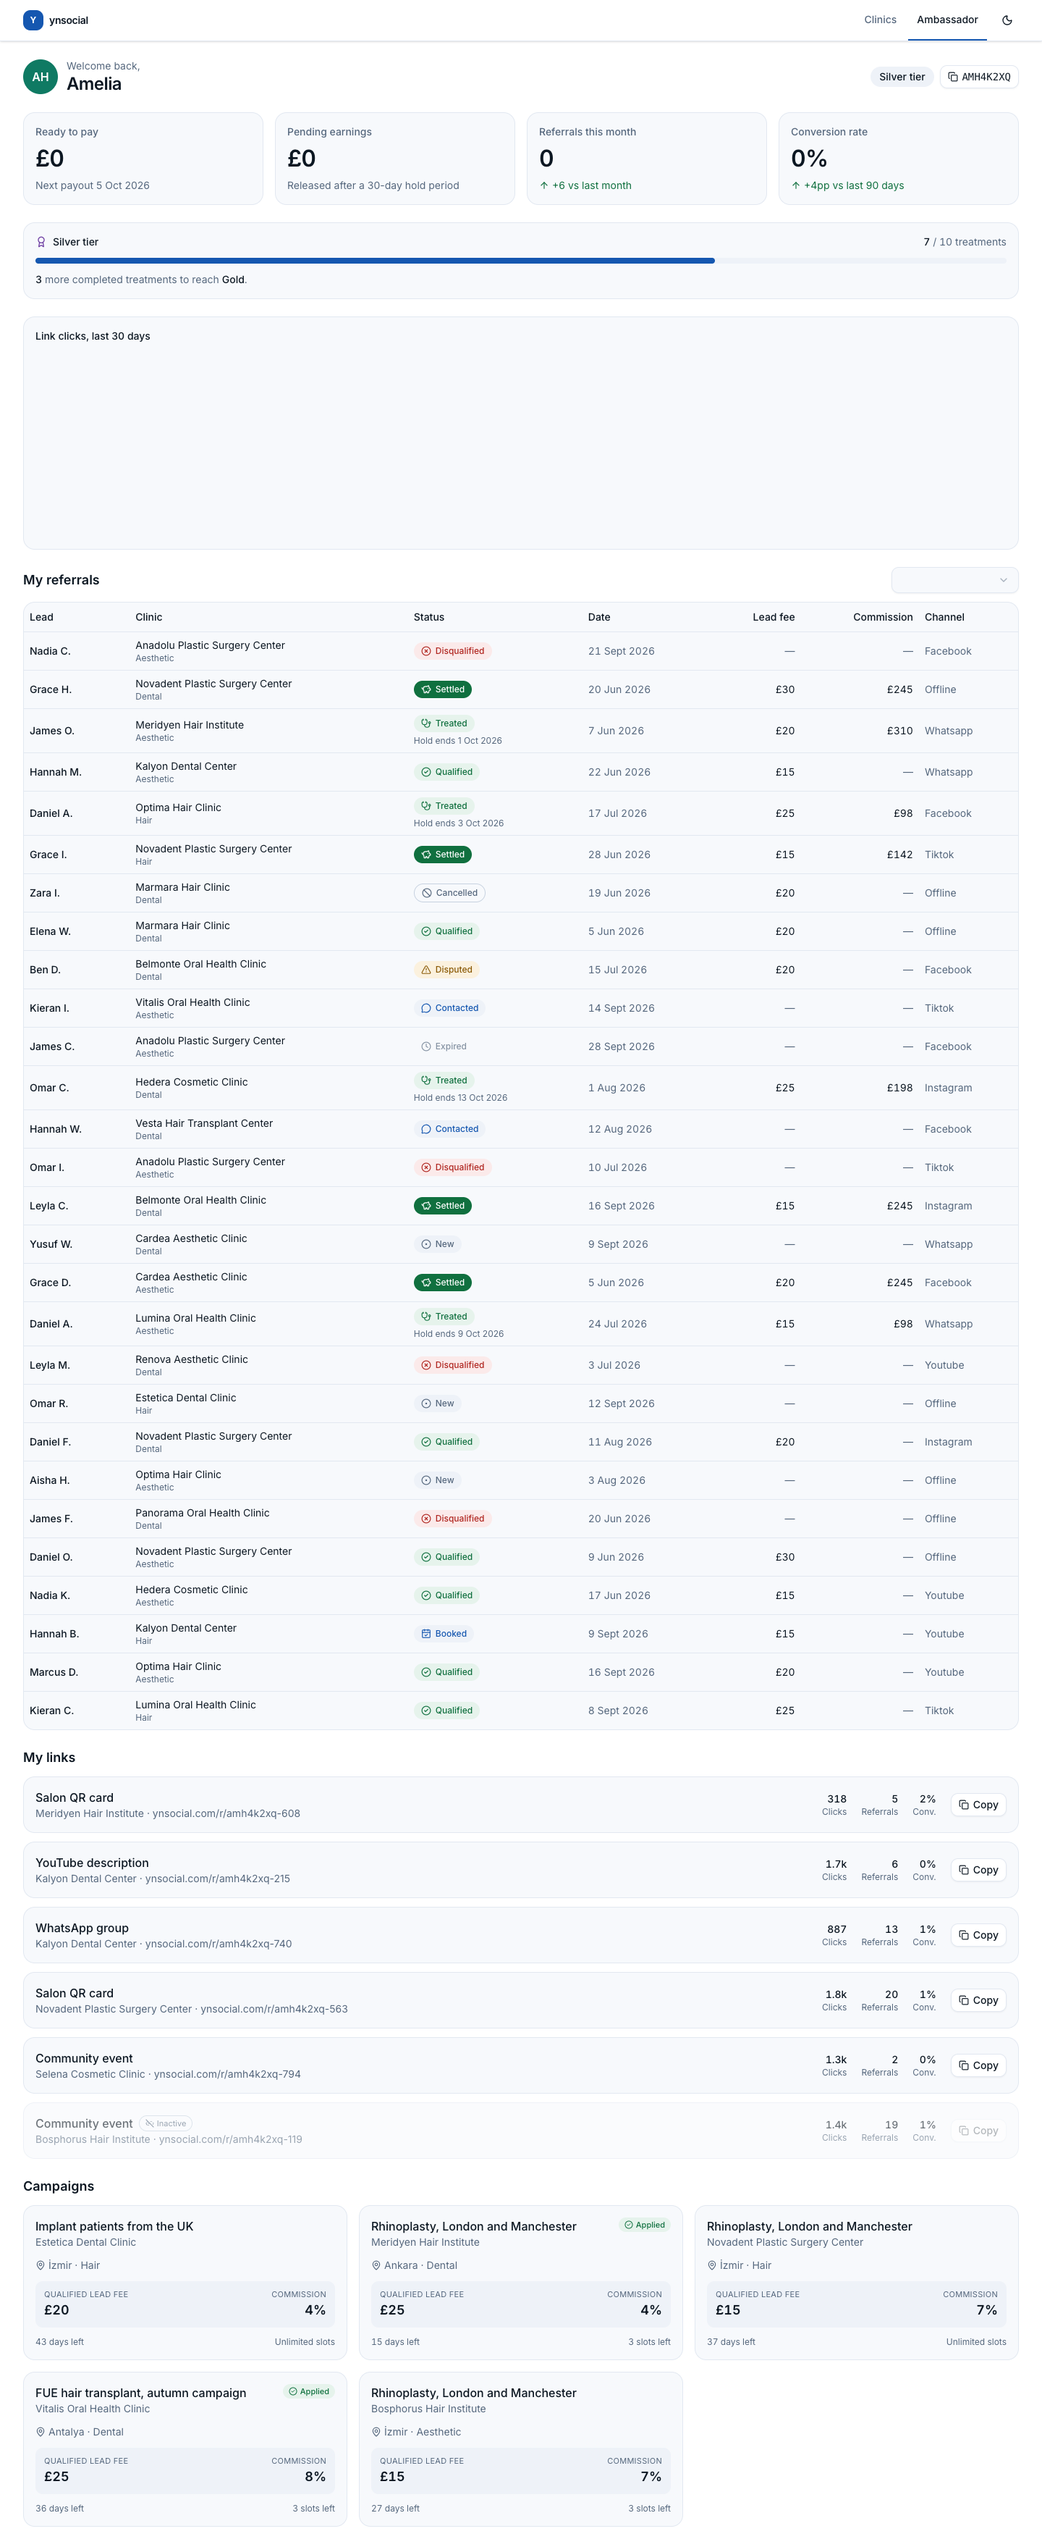
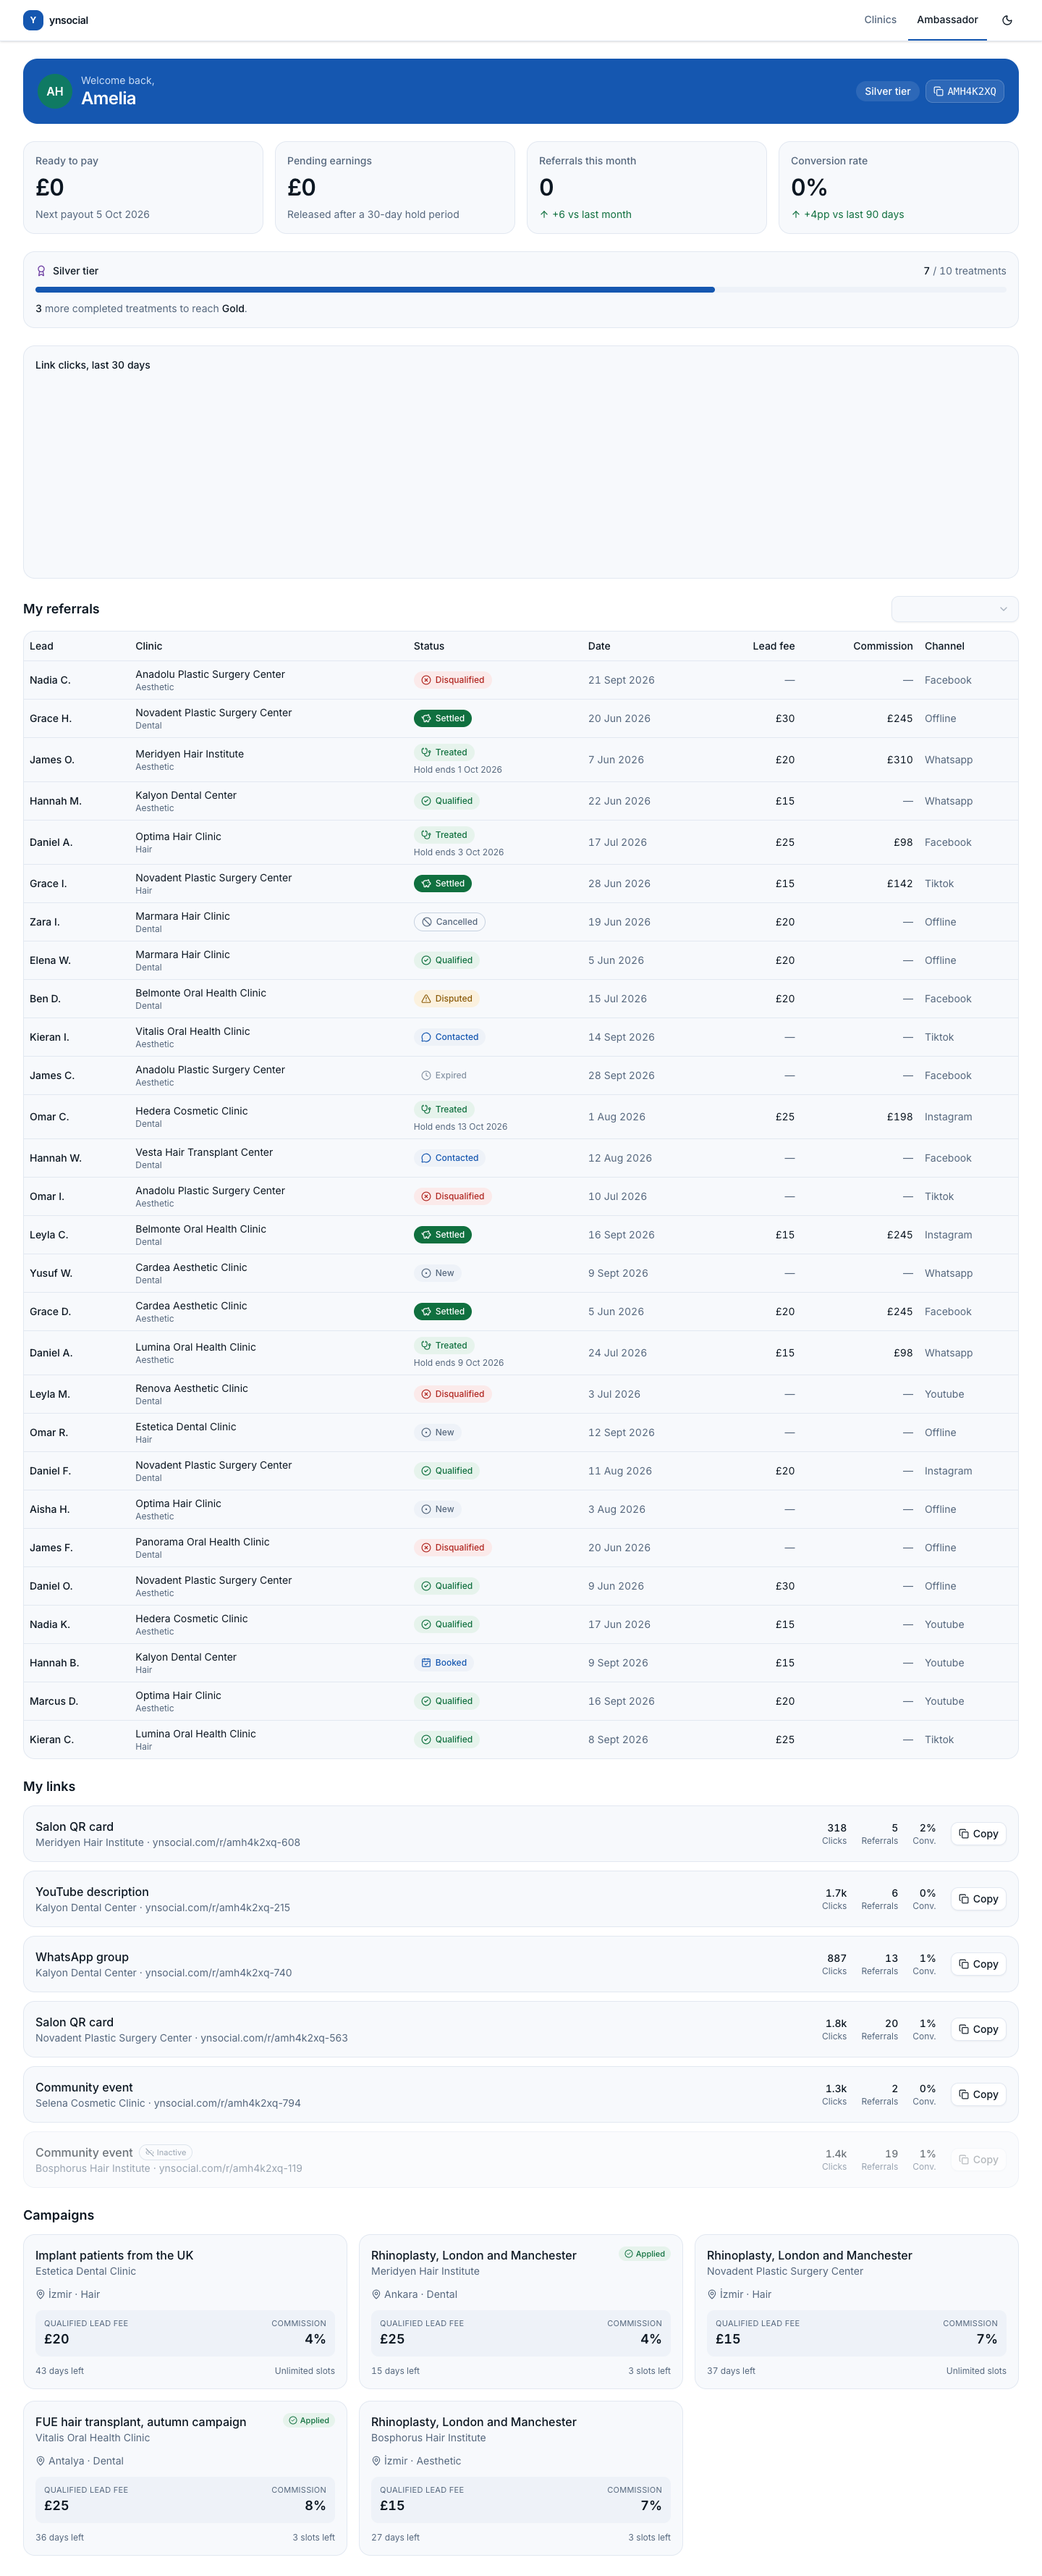
Bold solid-color hero band, plus a real rAF stall fix
The 12%-tint gradient hero still read as "white with a hint of blue" —
direct, repeated feedback. Both the /clinics hero and the /ambassador
greeting card now use --hero-bg as a full solid fill (same blue as
--primary, at 100% instead of 12%), with white/off-white text, translucent
tiles, and italics instead of color for the headline's emphasized word
(color-as-emphasis stops working once the background IS that color).
New --hero-* tokens and contrast pairs documented in the README.

Also fixes a real bug found while regenerating docs screenshots:
AnimatedNumber's count-up relied solely on requestAnimationFrame, which
can be throttled to zero in backgrounded/unfocused tabs (reliably
reproducible in headless Chrome) and would leave the number stuck
mid-count indefinitely. Added a setTimeout safety net that forces the
final value once the duration elapses regardless of how many rAF ticks
actually ran.

diff --git a/src/app/globals.css b/src/app/globals.css
@@ -36,6 +36,16 @@
   --accent: #6e3fa3;
   --accent-bg: #f1eaf9;
 
+  /* --- Hero band: a bold, full-color section (not chrome) — the "one
+     accent, used with conviction" surface. Same blue family as --primary,
+     not a new hue. --- */
+  --hero-bg: #1557b0;
+  --hero-text: #ffffff;
+  --hero-text-muted: #c9dcf5;
+  --hero-tile-bg: rgba(255, 255, 255, 0.1);
+  --hero-tile-border: rgba(255, 255, 255, 0.18);
+  --hero-icon-bg: rgba(255, 255, 255, 0.16);
+
   /* --- Radius --- */
   --radius-sm: 6px;
   --radius-md: 10px;
@@ -75,6 +85,15 @@
   --danger-bg: rgba(248, 113, 113, 0.12);
   --accent: #b79ae0;
   --accent-bg: rgba(183, 154, 224, 0.14);
+
+  /* Richer and lighter than the page background so the hero still reads
+     as a deliberate colored section, not just "more dark". */
+  --hero-bg: #123a66;
+  --hero-text: #e8eef6;
+  --hero-text-muted: #9aacc2;
+  --hero-tile-bg: rgba(255, 255, 255, 0.07);
+  --hero-tile-border: rgba(255, 255, 255, 0.14);
+  --hero-icon-bg: rgba(255, 255, 255, 0.12);
 }
 
 @theme inline {
@@ -90,6 +109,13 @@
   --color-primary: var(--primary);
   --color-primary-hover: var(--primary-hover);
   --color-text-on-primary: var(--text-on-primary);
+
+  --color-hero-bg: var(--hero-bg);
+  --color-hero-text: var(--hero-text);
+  --color-hero-text-muted: var(--hero-text-muted);
+  --color-hero-tile: var(--hero-tile-bg);
+  --color-hero-tile-border: var(--hero-tile-border);
+  --color-hero-icon: var(--hero-icon-bg);
 
   --color-success: var(--success);
   --color-success-bg: var(--success-bg);
@@ -178,6 +204,12 @@
     border-radius: var(--radius-sm);
   }
 
+  /* The hero band's background IS --primary, so the default ring would
+     vanish on it. More specific selector, no layer tricks needed. */
+  .hero-panel :focus-visible {
+    outline-color: var(--hero-text);
+  }
+
   /* Tabular numerals wherever money or counts render. */
   .tabular {
     font-variant-numeric: tabular-nums;
@@ -203,16 +235,11 @@
     max-width: 1440px;
   }
 
-  /* Clinics hero band — a soft single-hue wash, not a second accent color,
-     so the marketing page reads as more than a plain white page without
-     breaking the "one vivid element on screen" rule. */
+  /* Clinics hero band — a bold, full-color section in the same blue
+     family as --primary (not a second accent), so the marketing page
+     leads with real color instead of a white banner with a headline. */
   .hero-panel {
-    background-image: linear-gradient(
-      160deg,
-      color-mix(in oklch, var(--primary) 12%, var(--surface)) 0%,
-      var(--surface) 55%,
-      var(--surface) 100%
-    );
+    background: var(--hero-bg);
   }
 
   /* Clinic card entrance — a brief, staggered rise, not a startup-style

diff --git a/src/components/clinics/trust-stats.tsx b/src/components/clinics/trust-stats.tsx
@@ -5,9 +5,11 @@ import { AnimatedNumber } from "@/components/common/animated-number"
 import type { Clinic } from "@/types/clinic"
 
 /** Real, computed numbers as individual tiles — not decoration, not
- *  invented stats (the platform explicitly has none). Each one is its own
- *  bordered card rather than a row split by dividers, so it holds up at
- *  any width instead of wrapping into an orphaned, half-separated line. */
+ *  invented stats (the platform explicitly has none). Styled for the
+ *  hero's solid-color background (translucent white tiles), since that's
+ *  the only place this renders. Each stat is its own bordered unit rather
+ *  than a row split by dividers, so it holds up at any width instead of
+ *  wrapping into an orphaned, half-separated line. */
 export function TrustStats({ clinics }: { clinics: Clinic[] }) {
   const cities = new Set(clinics.map((c) => c.city)).size
   const languages = new Set(clinics.flatMap((c) => c.languages)).size
@@ -25,16 +27,16 @@ export function TrustStats({ clinics }: { clinics: Clinic[] }) {
       {stats.map((stat) => (
         <div
           key={stat.label}
-          className="flex items-center gap-3 rounded-lg border border-border bg-bg/70 px-3.5 py-3 backdrop-blur-sm transition-[transform,box-shadow] duration-150 hover:-translate-y-0.5 hover:shadow-md"
+          className="flex items-center gap-3 rounded-lg border border-hero-tile-border bg-hero-tile px-3.5 py-3 backdrop-blur-sm transition-[transform,box-shadow] duration-150 hover:-translate-y-0.5 hover:shadow-lg"
         >
-          <span className="flex size-9 shrink-0 items-center justify-center rounded-md bg-primary/10 text-primary">
+          <span className="flex size-9 shrink-0 items-center justify-center rounded-md bg-hero-icon text-hero-text">
             <stat.icon className="size-4" aria-hidden="true" />
           </span>
           <div className="min-w-0">
-            <dd className="tabular text-xl font-semibold leading-tight text-text">
+            <dd className="tabular text-xl font-semibold leading-tight text-hero-text">
               <AnimatedNumber value={stat.value} format={(n) => String(Math.round(n))} />
             </dd>
-            <dt className="text-xs leading-tight text-text-muted">{stat.label}</dt>
+            <dt className="text-xs leading-tight text-hero-text-muted">{stat.label}</dt>
           </div>
         </div>
       ))}

diff --git a/src/app/clinics/page.tsx b/src/app/clinics/page.tsx
@@ -20,14 +20,15 @@ export default async function ClinicsPage() {
 
   return (
     <main className="flex w-full flex-col">
-      <div className="hero-panel border-b border-border">
-        <div className="mx-auto grid w-full page-container grid-cols-1 items-center gap-8 px-4 py-10 sm:px-5 lg:grid-cols-[1.05fr_0.95fr] lg:gap-12 lg:px-8 lg:py-14">
+      <div className="hero-panel">
+        <div className="mx-auto grid w-full page-container grid-cols-1 items-center gap-8 px-4 py-12 sm:px-5 lg:grid-cols-[1.05fr_0.95fr] lg:gap-12 lg:px-8 lg:py-16">
           <div className="flex flex-col gap-6">
             <div className="max-w-xl space-y-3">
-              <h1 className="font-serif text-4xl font-medium tracking-tight text-text sm:text-5xl">
-                Find a <em className="text-primary not-italic">verified</em> clinic in Turkey
+              <h1 className="font-serif text-4xl font-medium tracking-tight text-hero-text sm:text-5xl">
+                Find a <em className="font-serif italic text-hero-text">verified</em> clinic in
+                Turkey
               </h1>
-              <p className="text-lg text-text-muted">
+              <p className="text-lg text-hero-text-muted">
                 Every clinic on ynsocial is either document-verified or visited
                 on-site. Filter by city, treatment and language to compare
                 options before you talk to anyone.
@@ -37,7 +38,7 @@ export default async function ClinicsPage() {
             <TrustStats clinics={clinics} />
           </div>
 
-          <div className="relative aspect-[4/3] w-full overflow-hidden rounded-2xl border border-border shadow-sm lg:aspect-auto lg:h-full lg:min-h-80">
+          <div className="relative aspect-[4/3] w-full overflow-hidden rounded-2xl border border-hero-tile-border shadow-lg lg:aspect-auto lg:h-full lg:min-h-80">
             <Image
               src="/images/hero-clinics.jpg"
               alt=""

diff --git a/src/components/ambassador/ambassador-header.tsx b/src/components/ambassador/ambassador-header.tsx
@@ -30,20 +30,27 @@ export function AmbassadorHeader({ profile }: { profile: AmbassadorProfile }) {
   }
 
   return (
-    <div className="flex flex-col gap-4 sm:flex-row sm:items-center sm:justify-between">
+    <div className="hero-panel flex flex-col gap-4 rounded-xl px-5 py-5 sm:flex-row sm:items-center sm:justify-between">
       <div className="flex items-center gap-3">
         <IdentityAvatar seed={profile.id} name={profile.fullName} className="size-12 text-base" />
         <div>
-          <p className="text-sm text-text-muted">Welcome back,</p>
-          <h1 className="text-2xl font-semibold tracking-tight text-text">{firstName(profile.fullName)}</h1>
+          <p className="text-sm text-hero-text-muted">Welcome back,</p>
+          <h1 className="text-2xl font-semibold tracking-tight text-hero-text">
+            {firstName(profile.fullName)}
+          </h1>
         </div>
       </div>
 
       <div className="flex items-center gap-2">
-        <span className="rounded-full bg-surface-2 px-3 py-1 text-sm font-medium text-text">
+        <span className="rounded-full bg-hero-tile px-3 py-1 text-sm font-medium text-hero-text">
           {TIER_LABEL[profile.tier] ?? profile.tier} tier
         </span>
-        <Button variant="outline" size="sm" className="gap-1.5 font-mono" onClick={copyCode}>
+        <Button
+          variant="outline"
+          size="sm"
+          className="gap-1.5 border-hero-tile-border bg-hero-tile font-mono text-hero-text hover:bg-hero-icon hover:text-hero-text"
+          onClick={copyCode}
+        >
           {copied ? <Check className="size-3.5" /> : <Copy className="size-3.5" />}
           {profile.referralCode}
         </Button>

diff --git a/src/components/common/animated-number.tsx b/src/components/common/animated-number.tsx
@@ -46,7 +46,17 @@ export function AnimatedNumber({ value, format, durationMs = 700 }: AnimatedNumb
     }
 
     frame = requestAnimationFrame(tick)
-    return () => cancelAnimationFrame(frame)
+
+    // Safety net: browsers may throttle rAF to near-zero for backgrounded
+    // or unfocused tabs, which would otherwise leave the count stuck part
+    // way through indefinitely. Force the final value once the duration
+    // has elapsed regardless of how many rAF ticks actually ran.
+    const settle = setTimeout(() => setDisplay(value), durationMs + 50)
+
+    return () => {
+      cancelAnimationFrame(frame)
+      clearTimeout(settle)
+    }
     // eslint-disable-next-line react-hooks/exhaustive-deps
   }, [value])
 

diff --git a/README.md b/README.md
@@ -106,6 +106,9 @@ sparingly" rule.
 | `--warning` | `#8A5A06` | Disputed status |
 | `--danger` | `#B02620` | Negative status |
 | `--brand` (accent) | `#6E3FA3` | Featured tag, tier badge |
+| `--hero-bg` | `#1557B0` | Clinics hero band, ambassador greeting card |
+| `--hero-text` | `#FFFFFF` | Text/icons on the hero band |
+| `--hero-text-muted` | `#C9DCF5` | Secondary text on the hero band |
 
 **Dark theme** — a separate design, not an inverted light theme. Ground is
 a dark navy-slate (`#0E1520`), never pure black; text is a cool off-white
@@ -128,6 +131,9 @@ light-mode tone verbatim.
 | `--warning` | `#E3B341` | Disputed status |
 | `--danger` | `#F87171` | Negative status |
 | `--brand` (accent) | `#B79AE0` | Featured tag, tier badge |
+| `--hero-bg` | `#123A66` | Clinics hero band, ambassador greeting card |
+| `--hero-text` | `#E8EEF6` | Text/icons on the hero band |
+| `--hero-text-muted` | `#9AACC2` | Secondary text on the hero band |
 
 ### Measured contrast ratios
 
@@ -142,12 +148,14 @@ All twelve pairs below clear AA; most clear AAA (7:1).
 | Success / background | 6.16:1 | 8.54:1 |
 | Danger / background | 6.68:1 | 6.05:1 |
 | Brand accent / background | 7.23:1 | 7.60:1 |
+| Hero text / hero band | 6.95:1 | 9.87:1 |
+| Hero muted text / hero band | 4.98:1 | 4.97:1 |
 
 The light-theme figures for the first six pairs come from the brief's own
 pre-verified reference palette (`docs/02-TASARIM-YONU.md`), which I adopted
-unchanged for those roles. Every other figure — both dark-theme columns and
-the brand accent — I computed myself (WCAG relative-luminance formula)
-since those are values I chose.
+unchanged for those roles. Every other figure — both dark-theme columns,
+the brand accent, and the hero band — I computed myself (WCAG
+relative-luminance formula) since those are values I chose.
 Button fill contrast (white-on-primary / dark-text-on-primary) was checked
 separately and lands at 6.95:1 and 7.35:1 respectively.
 
@@ -306,10 +314,25 @@ numbers under the hero used to be plain text separated by `divide-x`
 hairlines — on any width where they wrapped to a second line, the line
 that was supposed to separate two numbers ended up next to nothing,
 looking like a rendering bug rather than a design. Each stat is now its
-own bordered tile with an icon in a tinted `primary/10` chip, arranged in
-a proper 2×2 / 4-across grid — it survives wrapping at any width because
-each tile is a complete, self-contained unit instead of one item in a
-divided row.
+own bordered tile with an icon chip, arranged in a proper 2×2 / 4-across
+grid — it survives wrapping at any width because each tile is a complete,
+self-contained unit instead of one item in a divided row.
+
+**The hero went from a wash to a solid fill.** Even split into two columns
+with a photo, a 12%-tint gradient still read as "a white page with a hint
+of blue" rather than a page with actual color in it — which was the
+direct, repeated piece of feedback on this project. The `/clinics` hero
+band (and a compact version of the `/ambassador` greeting card, for the
+same reason) now use `--hero-bg`, a full, solid fill in the same blue as
+`--primary` — not a new hue, just the existing one used at 100% instead of
+12%. Text on it goes to white/off-white (`--hero-text`), the trust tiles
+become translucent white chips instead of tinted-white-on-white, and the
+headline's emphasis switched from a color trick (which stops working the
+instant the background *is* that color) to italics — the same device the
+BitPan reference uses for its own emphasized words. This is the one
+department where I intentionally pushed past "restrained" toward "bold,"
+on direct request — still one hue, but at full strength and covering a
+large surface, rather than confined to small chips.
 
 ## How the two pages stay one system while looking different
 
